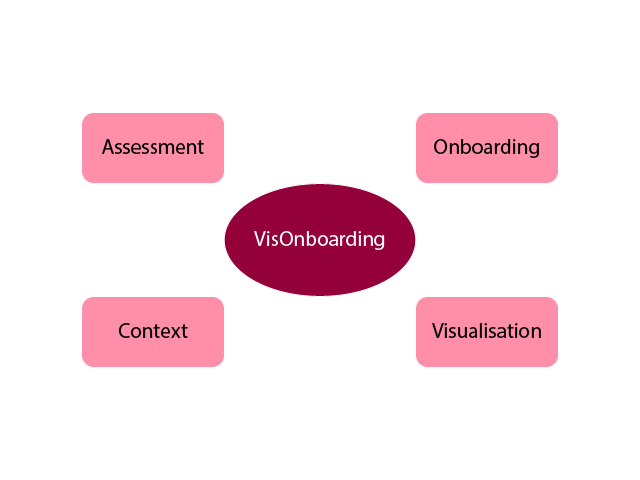
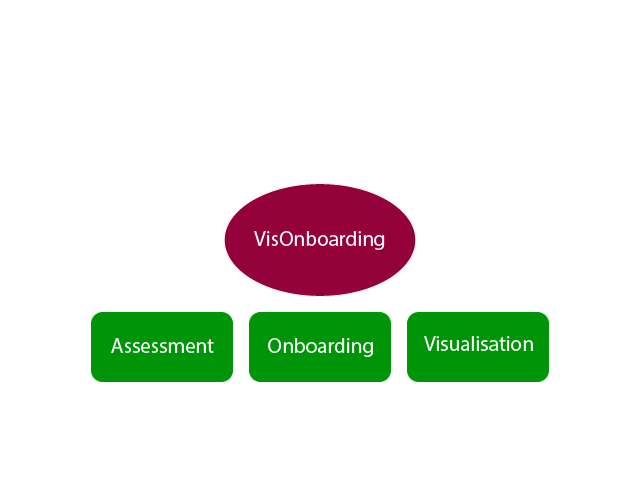
change colours of index images; text improvements

Changed region(s): [[0.125, 0.5938, 0.875, 0.8125], [0.625, 0.2188, 0.875, 0.4062], [0.125, 0.2188, 0.375, 0.4062]]

diff --git a/pages/index.js b/pages/index.js
@@ -110,7 +110,7 @@ const InputPanel = React.memo(function InputPanel(props) {
             <span className="w-full block ml-auto mr-auto align-middle text-center">
                 <img src={sanitizePublicPath("static/index/error_outline-24px.svg")} alt={""}
                      className={"inline mr-2 align-top"}/>
-                {props.text}
+                <span dangerouslySetInnerHTML={{__html: props.text}}/>
                 </span>
         <label className="w-1/2 block ml-auto mr-auto mt-3">
             <input type={"text"} onChange={props.onChange}
@@ -120,7 +120,7 @@ const InputPanel = React.memo(function InputPanel(props) {
     </div>
 });
 InputPanel.defaultProps = {
-    text: "Please enter either your student registration number or your name and choose a path.",
+    text: "Please enter either your <strong>student registration number</strong> or your <strong>name</strong> and choose a path.",
     placeholderText: "it181508 / mayrhofer"
 };
 InputPanel.propTypes = {
@@ -154,8 +154,7 @@ const TaskCard = React.memo(function TaskCard(props) {
     return <ModeCard className={props.className} image={props.image} onClick={props.onClick} title={props.title}
                      enabled={props.enabled}>
         <ModeCardText>
-            Start without onboarding and navigate directly to the visualisation.
-            Phases: <i>Visualisation</i>.
+            Start without a data visualization onboarding tour and navigate directly to the visualisation.
         </ModeCardText>
     </ModeCard>;
 });
